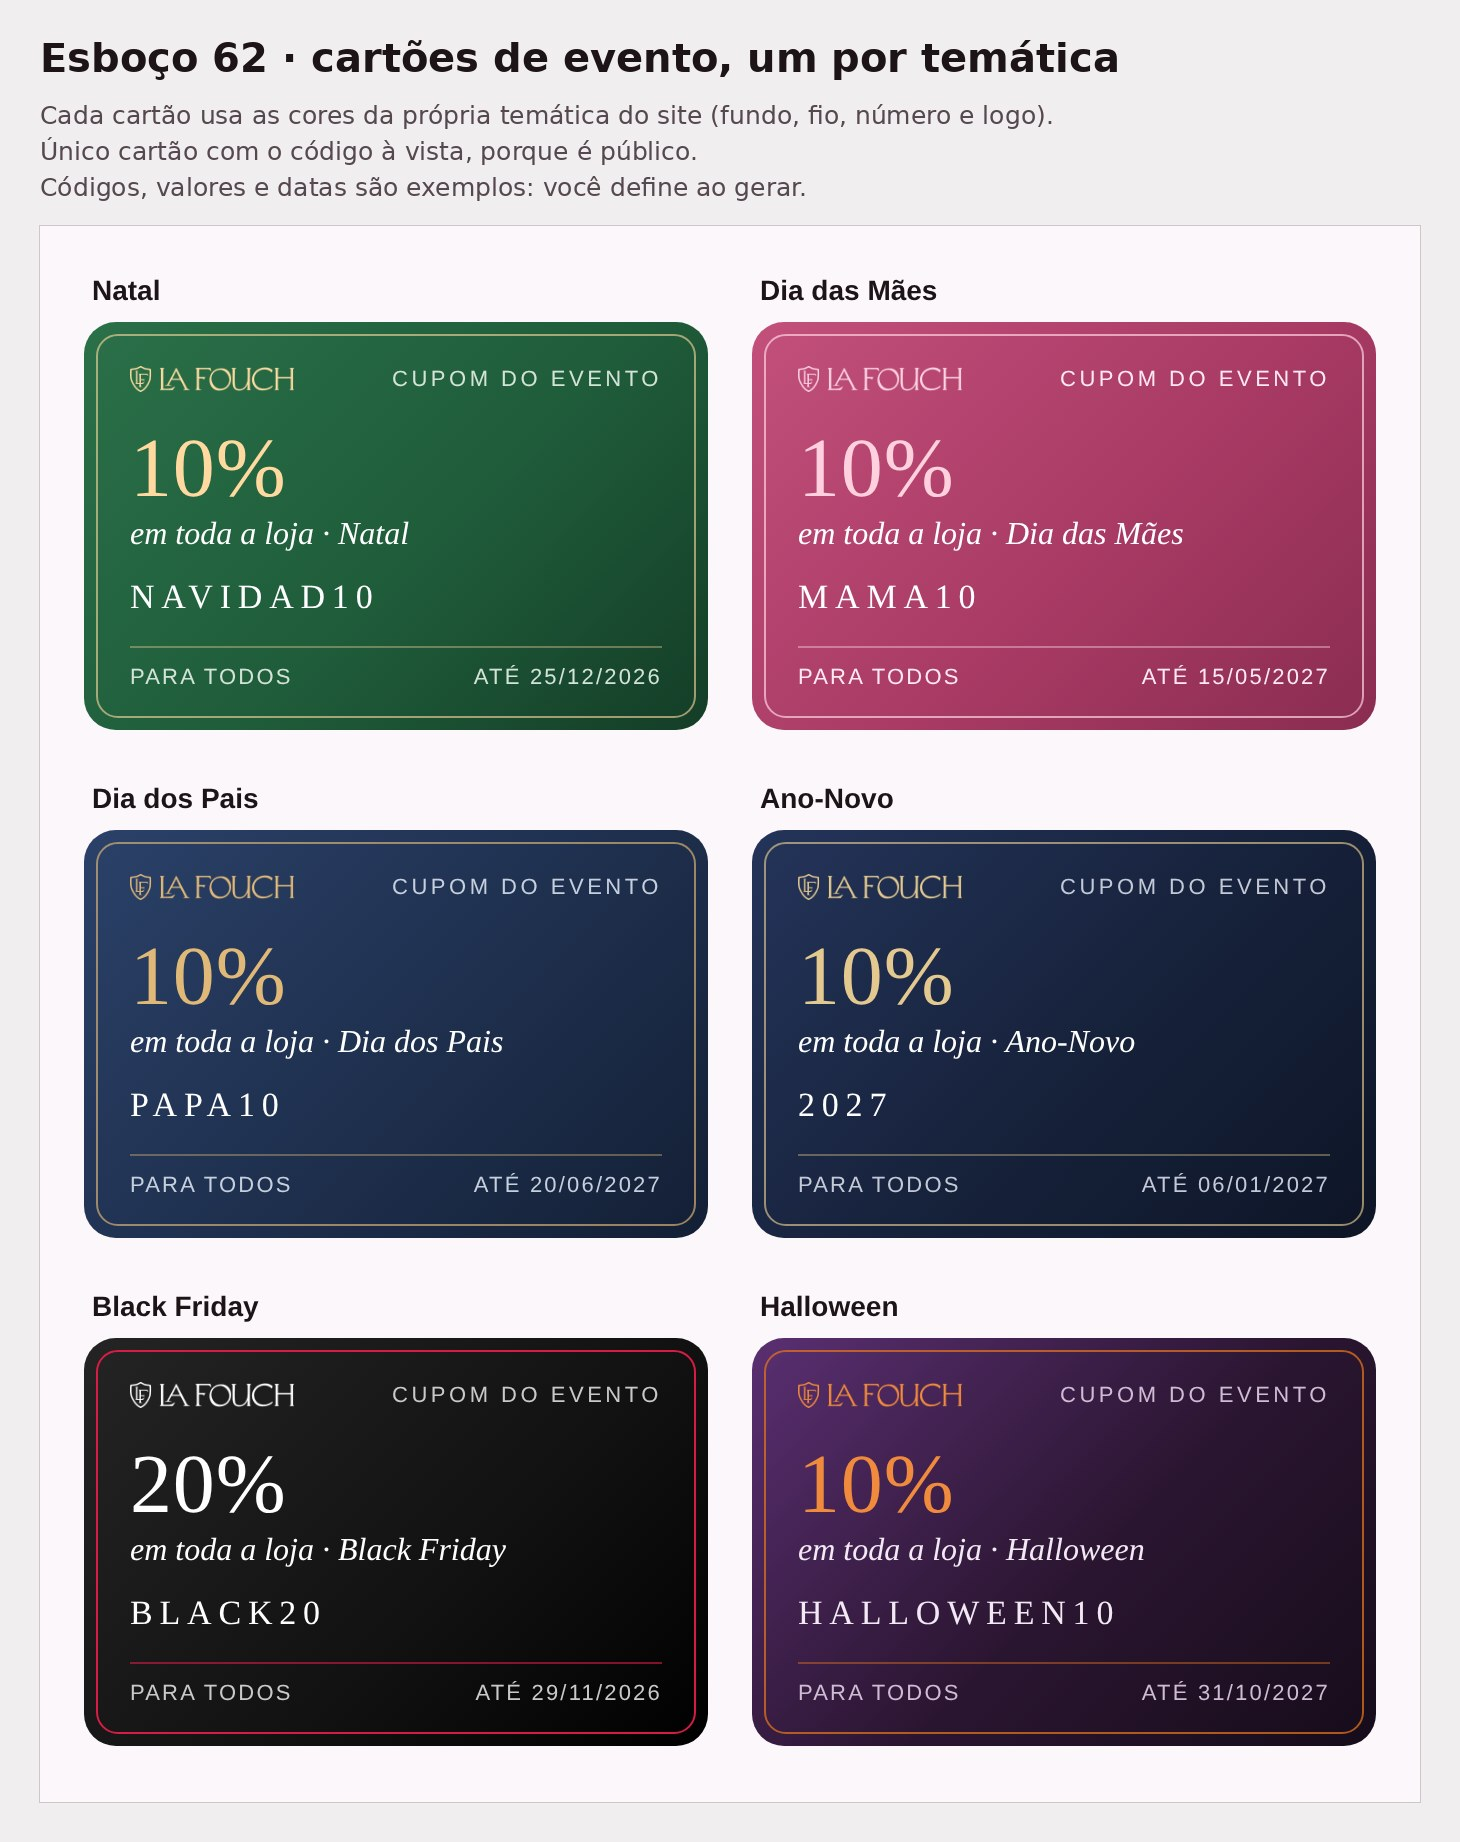
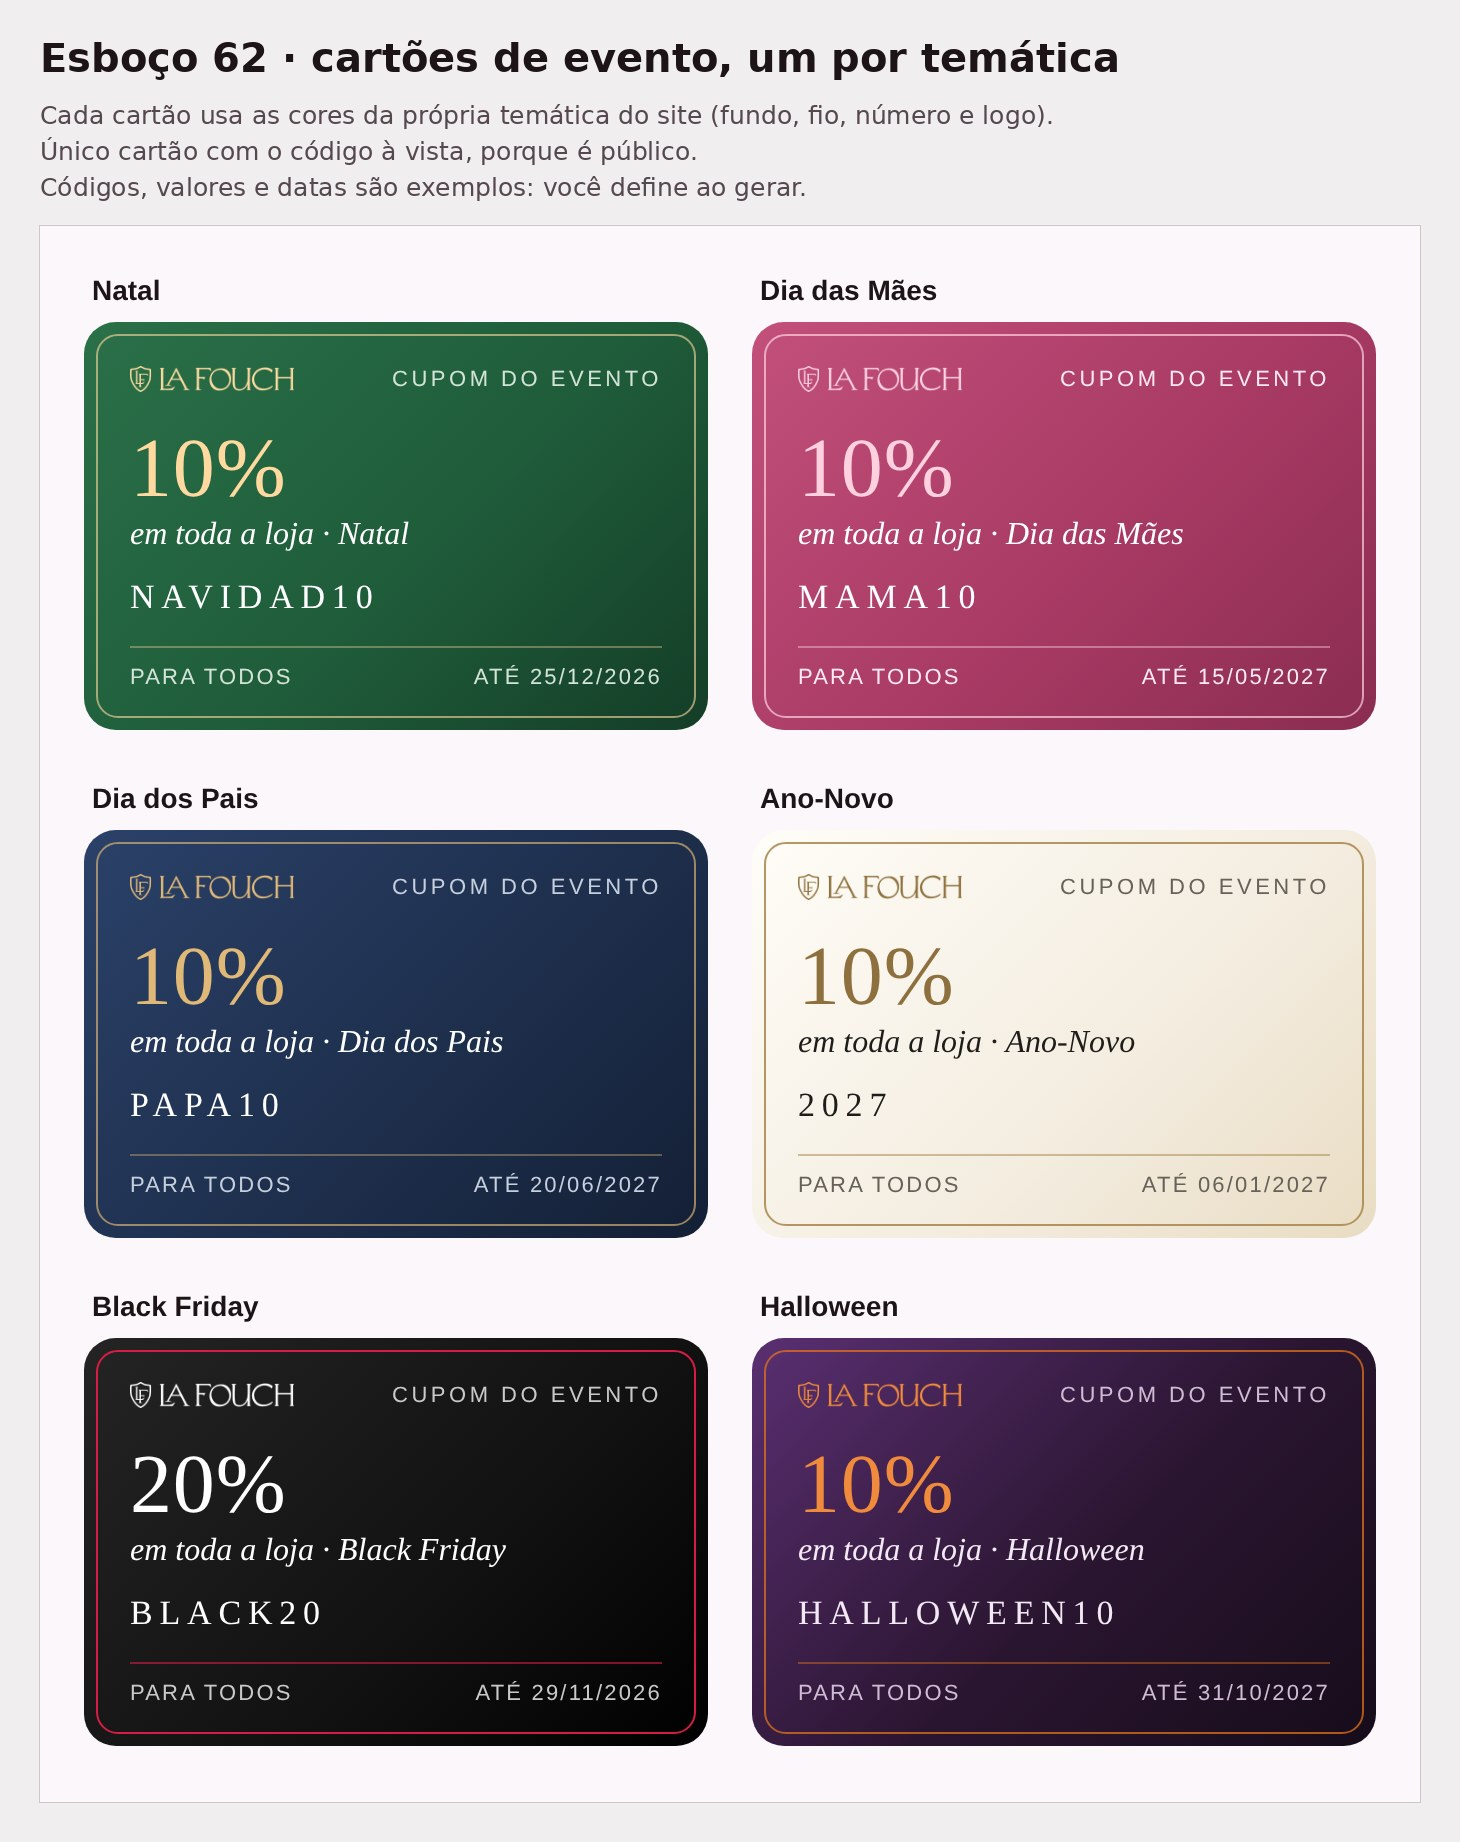
Esboço 62: Ano-Novo em champanhe e dourado (temática de dia do site)
Claude-Session: https://claude.ai/code/session_01Vj5GPR2QjandaFr6ascRKC

Changed region(s): [[0.4932, 0.4332, 0.9555, 0.6808]]

diff --git a/work/s398/gera.js b/work/s398/gera.js
@@ -6,7 +6,7 @@ const OURO='#d6b274',OURO2='#e9d3a6';
 const EV={natal:{n:'Natal',gr:'linear-gradient(135deg,#2a7049 0%,#1f5c3a 55%,#143d27 100%)',bg:'#1f5c3a',fio:'rgba(255,217,160,.6)',num:'#ffd9a0',tx:'#ffffff',sub:'#d3e3d8',logo:'LOGO_EV_natal'},
  maes:{n:'Dia das Mães',gr:'linear-gradient(135deg,#c2507b 0%,#a83a64 55%,#8a2c50 100%)',bg:'#a83a64',fio:'rgba(255,209,223,.7)',num:'#ffd1df',tx:'#ffffff',sub:'#ffe9f0',logo:'LOGO_EV_maes'},
  pais:{n:'Dia dos Pais',gr:'linear-gradient(135deg,#2b4169 0%,#1e2f4d 55%,#131f35 100%)',bg:'#1e2f4d',fio:'rgba(224,184,120,.65)',num:'#e0b878',tx:'#ffffff',sub:'#c6cfdd',logo:'LOGO_EV_pais'},
- anonovo:{n:'Ano-Novo',gr:'linear-gradient(135deg,#24345a 0%,#16213a 55%,#0d1526 100%)',bg:'#16213a',fio:'rgba(227,200,143,.65)',num:'#e3c88f',tx:'#ffffff',sub:'#c3c9d6',logo:'LOGO_EV_anonovo'},
+ anonovo:{n:'Ano-Novo',gr:'linear-gradient(135deg,#fffdf8 0%,#f3ecdf 60%,#e9dcc3 100%)',bg:'#f6f2ea',fio:'rgba(168,133,74,.85)',num:'#8d703e',tx:'#1f1d1a',sub:'#66625a',logo:'LOGO_EV_anonovo'},
  bf:{n:'Black Friday',gr:'linear-gradient(135deg,#242424 0%,#111111 60%,#000000 100%)',bg:'#111111',fio:'rgba(225,29,72,.95)',num:'#ffffff',tx:'#ffffff',sub:'#c9c9c9',logo:'LOGO_EV_bf'},
  halloween:{n:'Halloween',gr:'linear-gradient(135deg,#5a2f72 0%,#2a1530 55%,#160c1a 100%)',bg:'#2a1530',fio:'rgba(226,113,29,.75)',num:'#f08a3c',tx:'#f3e9f5',sub:'#cdbcd3',logo:'LOGO_EV_halloween'}};
 function luxo(o){

diff --git a/work/s398/logo.py b/work/s398/logo.py
@@ -17,5 +17,5 @@ def salva(S,arq,w):
 salva(monta(),'/tmp/s398/logo_h.png',560)                       # vinho, com o lema — topo dos e-mails
 salva(monta((214,178,116),False),'/tmp/s398/logo_ouro.png',360)   # dourado, sem lema — dentro dos cartões escuros
 salva(monta((141,58,105),False),'/tmp/s398/logo_vinho.png',360)   # vinho, sem lema — dentro dos cartões claros
-for k,c in {'natal':(255,217,160),'maes':(255,209,223),'pais':(224,184,120),'anonovo':(227,200,143),'bf':(255,255,255),'halloween':(240,138,60)}.items(): salva(monta(c,False),'/tmp/s398/logo_ev_'+k+'.png',360)   # cor clara de cada temática — cartões de evento
+for k,c in {'natal':(255,217,160),'maes':(255,209,223),'pais':(224,184,120),'anonovo':(141,112,62),'bf':(255,255,255),'halloween':(240,138,60)}.items(): salva(monta(c,False),'/tmp/s398/logo_ev_'+k+'.png',360)   # cor clara de cada temática — cartões de evento
 B=Image.new('RGB',(620,330),'#fff');L=Image.open('/tmp/s398/logo_h.png');B.paste(L,(30,20),L);D=Image.new('RGB',(400,110),'#2a1224');O=Image.open('/tmp/s398/logo_ouro.png');D.paste(O,(20,20),O);B.paste(D,(30,200));B.save('/tmp/s398/ver_logo.jpg');print(L.size,O.size)

diff --git a/docs/FALTA-APROVAR-15-11.md b/docs/FALTA-APROVAR-15-11.md
@@ -308,3 +308,4 @@ Não são esquecimento (estavam na lista, parados de propósito ou por ordem do 
 - 17/11 05:35 — DONO: "Não era pro logo ter mudado, só no cartão; além disso sinto que o cartão tá um pouco grande; refazer cartões." → REFEITOS 61a–61i (work/s398, work/s395/esb4.py): o logo do topo dos e-mails VOLTA a ser o do site (empilhado, sem mudança); o logo com o escudo à esquerda de LA FOUCH fica SÓ dentro do cartão (dourado no vinho/preto, vinho no marfim); cartão MENOR (até 300 px de largura, número 42 px, menos respiro: cerca de metade da altura de antes). Erro meu anotado: troquei o logo do e-mail sem ele pedir. ESPERANDO aprovação, as metas e "implementar".
 - 17/11 06:10 · ESBOÇOS REFEITOS (aguardando aprovação; nada implementado) · pedido do dono de 05:48: (1) cartão VIP 61f com a VALIDADE QUE O DONO ESCOLHE ao gerar, sem "sempre que quiser"/"em todas as compras"/"sem validade"; (2) todos os textos servem para homem e mulher ("Agradecemos a preferência", "alguém especial", "a pessoa que você indicou", cartão "PARA PRESENTEAR") — 61a–61i refeitos; arquivos 61b e 61d renomeados (convite-para-indicar, indicacao-comprou-sem-cartao); ao implementar, trocar também os e-mails já publicados no feminino (functions/cupom.js, functions/pedidomail.js, PT e ES); (3) NOVO esboço 62 · cartões de evento, um por temática do site (natal, mães, pais, ano-novo, black friday no cartão preto, halloween), cor do número = cor da temática, código à vista. Arquivos: work/s398. PERGUNTA ABERTA: o cartão VIP vale quantas compras dentro da validade (1, várias ou o dono escolhe ao gerar)?
 - 17/11 06:15 — DONO: "Maravilha; agora cada cartão de evento precisa respeitar sua cor de temática." → ESBOÇO 62 REFEITO (aguardando aprovação; nada implementado): cada cartão de evento usa a paleta inteira da temática do site — natal verde #1f5c3a + dourado claro #ffd9a0; mães rosa #b8436f + #ffd1df; pais azul-marinho #1e2f4d + #e0b878; ano-novo azul-noite #16213a + #e3c88f; black friday preto #111 + fio vermelho #e11d48; halloween roxo #2a1530/#5a2f72 + laranja #e2711d. Fundo, fio, número e logo na cor da temática. Paletas em work/s398/gera.js (EV).
+- 17/11 06:17 — DONO: "Ano-novo e dia dos pais estão com a mesma cor; ano-novo tem sua temática de cor." → ESBOÇO 62 CORRIGIDO (aguardando aprovação): Ano-Novo passa a usar a temática de dia do site (champanhe claro + dourado #a8854a/#8d703e, texto #1f1d1a); Dia dos Pais fica sozinho no azul-marinho. Erro meu: usei a versão noite do Ano-Novo (#16213a), quase igual ao azul dos Pais.
